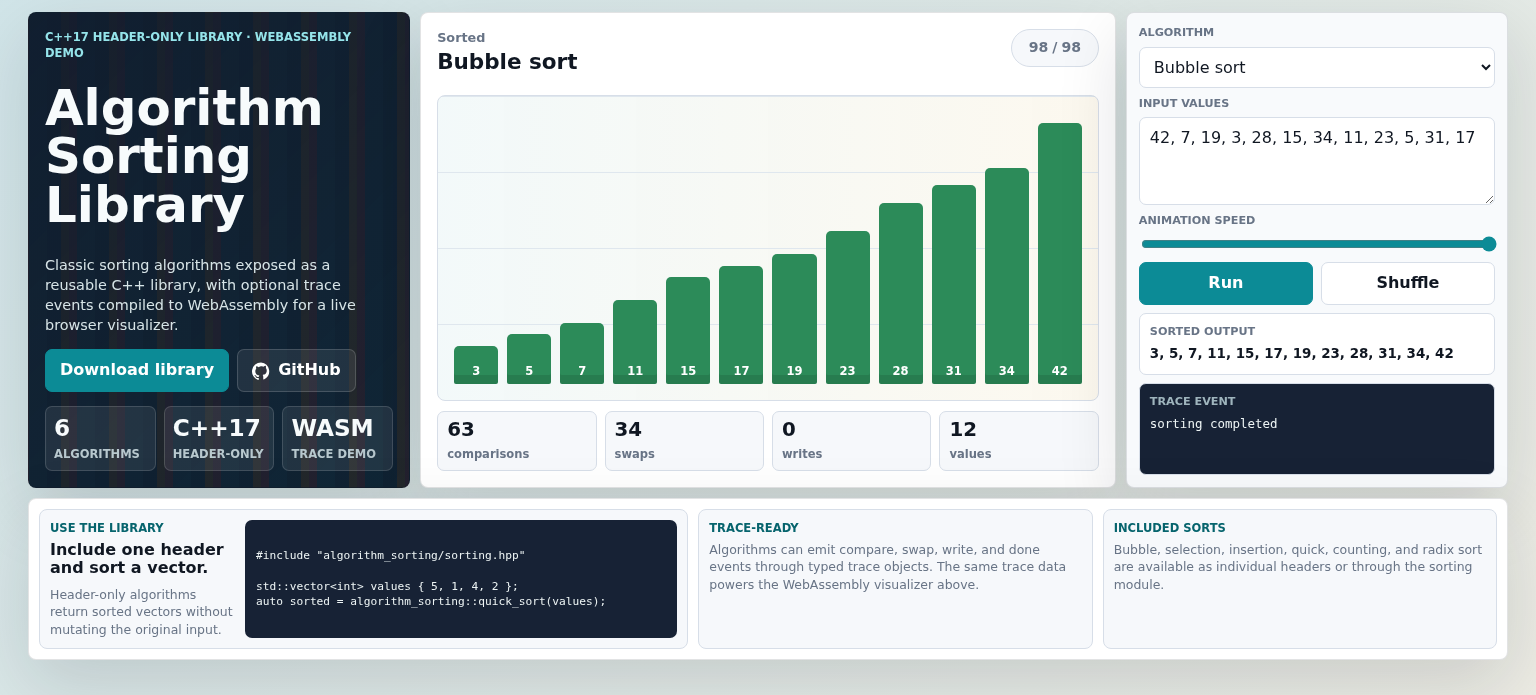
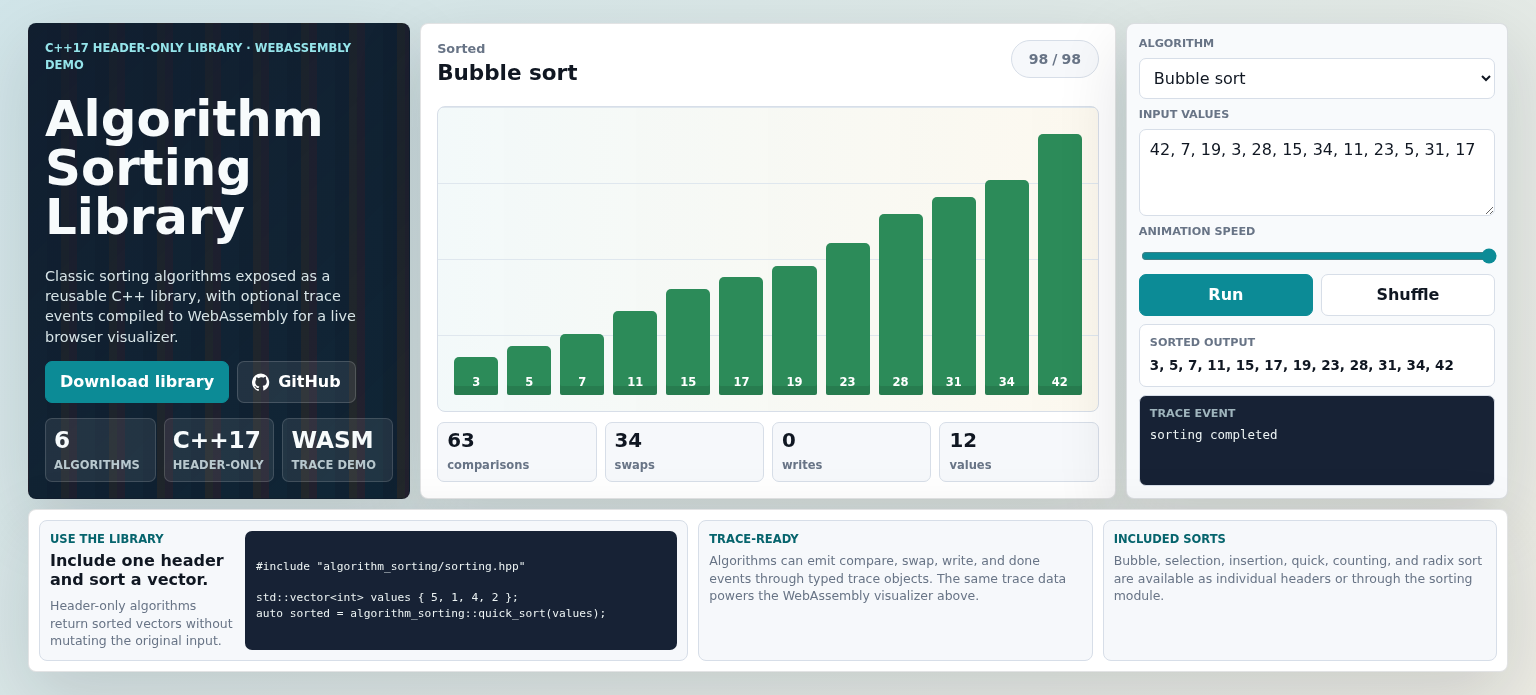
Update Site

diff --git a/site/style.css b/site/style.css
@@ -50,6 +50,8 @@ a {
 
 .page {
 	min-height: 100vh;
+	display: grid;
+	align-items: center;
 	padding: clamp(14px, 2vw, 24px);
 }
 